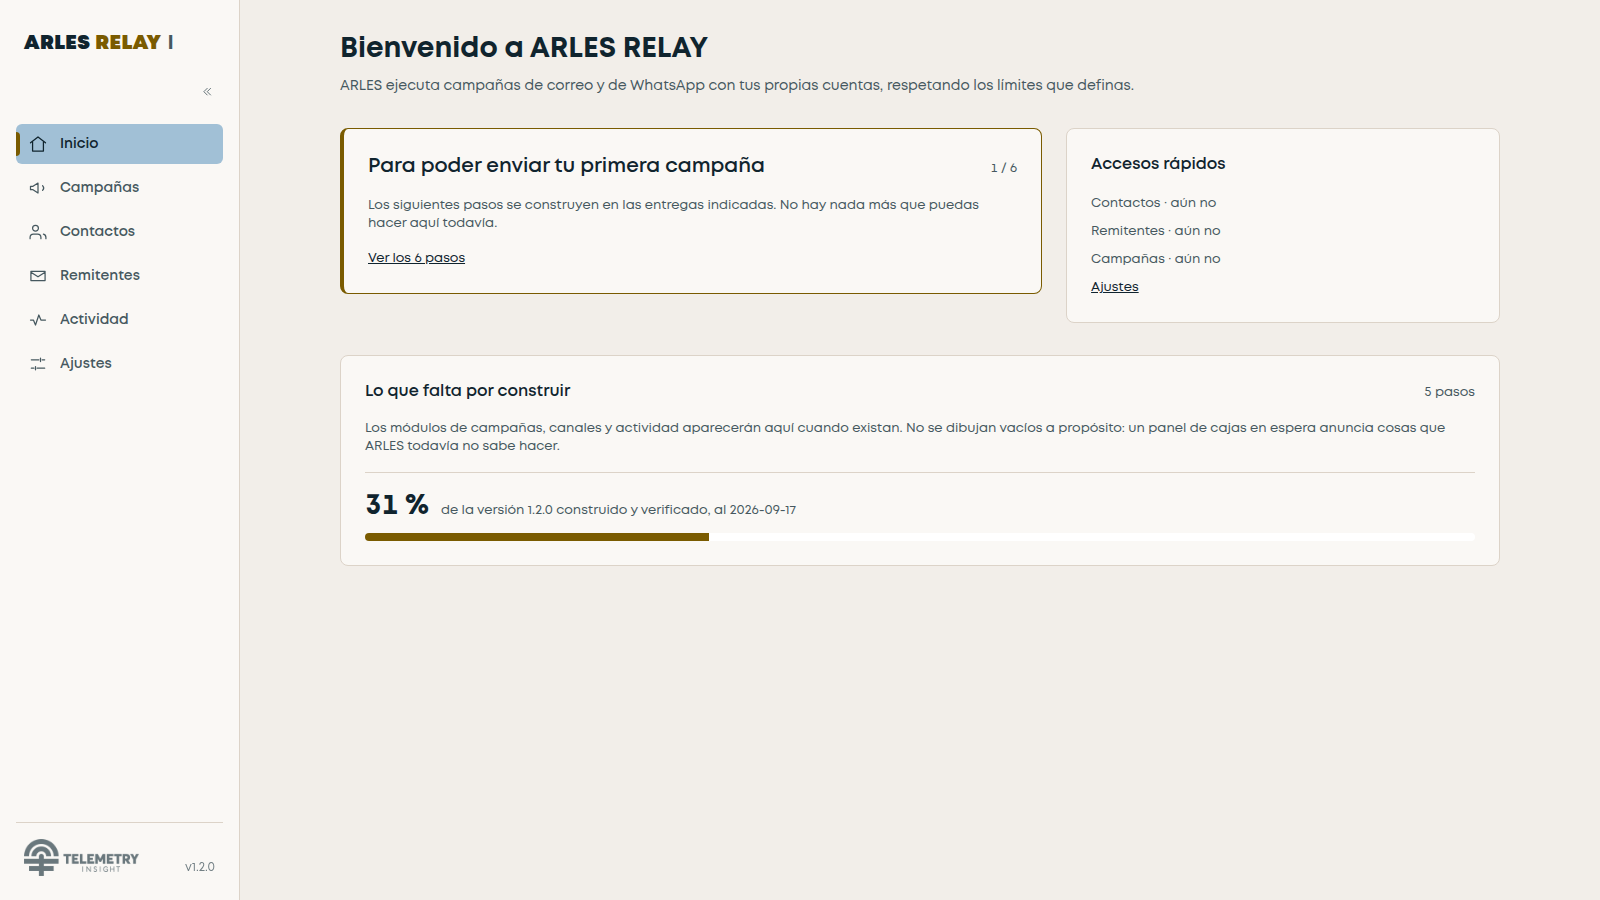
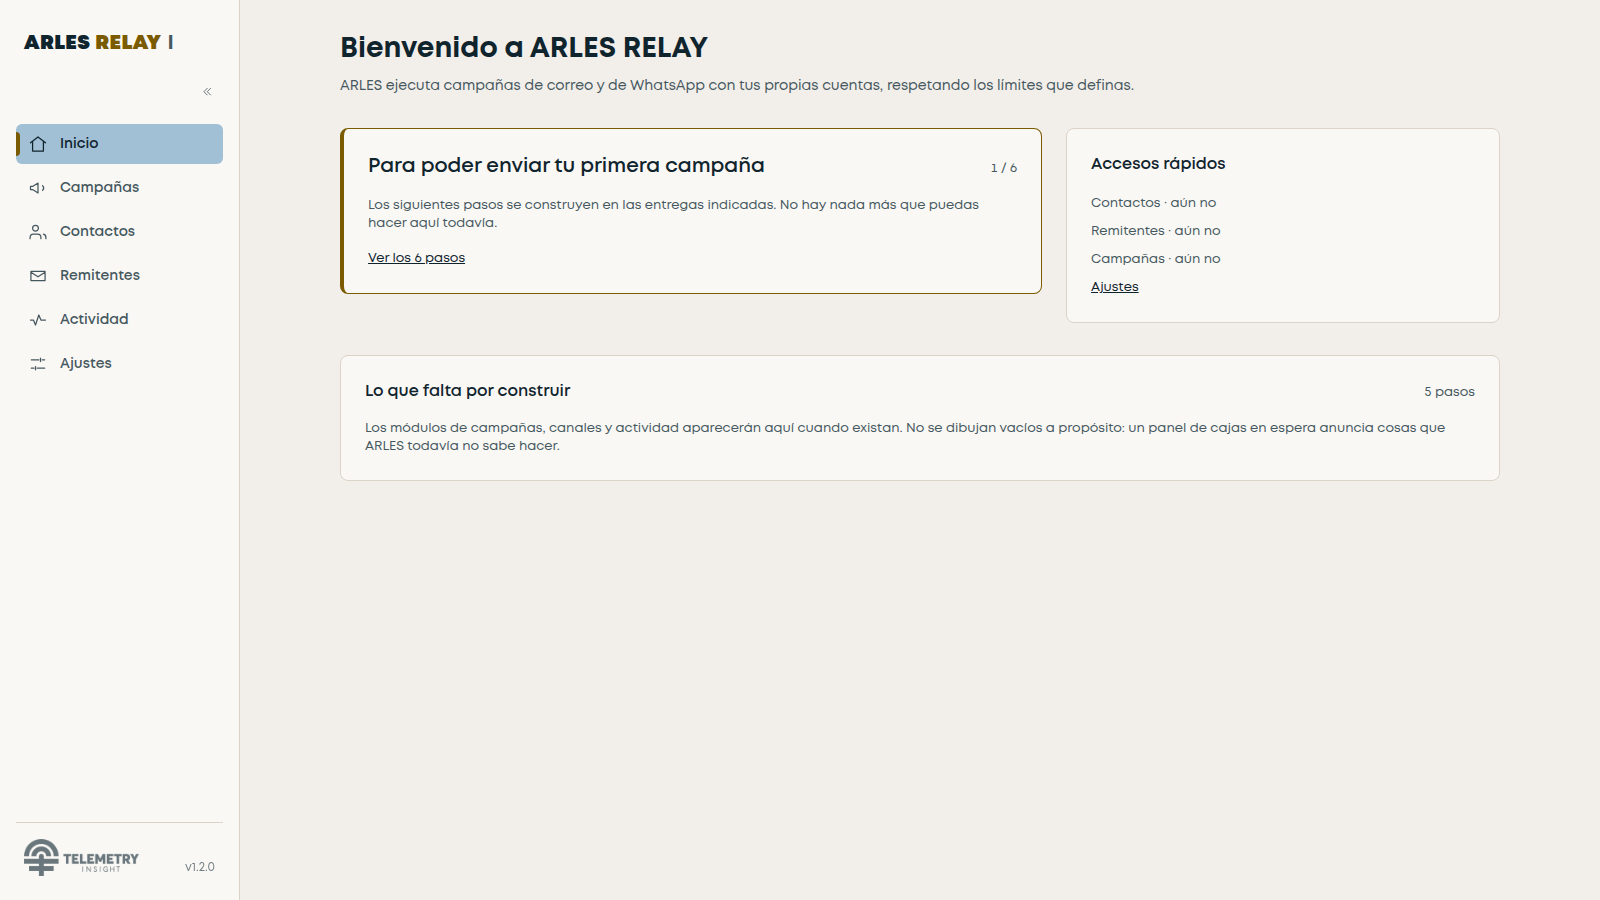
refactor(avance): el porcentaje va sólo en la portada de GitHub
Dirección decidió que el avance se vea en el repositorio y no dentro de la
aplicación. Se retira de la pantalla de Inicio, con sus textos, su archivo
generado y la comprobación del validador que lo vigilaba: vigilar un destino
que ya no existe sería un ✓ sobre nada.

Coincide con lo razonable: el avance es un dato del proyecto, no del producto.
A quien use ARLES no le sirve saber que está al 31 %; le sirve saber qué puede
hacer hoy, que es lo que dice la lista de alta. En el repositorio, en cambio,
es exactamente la pregunta que se viene a responder.

El generador sigue existiendo aunque el destino sea uno solo: escrita a mano,
la insignia se actualiza y el desglose de fases de debajo se queda con los
valores del mes pasado, contradiciéndola.

Verificado: fase 3 en 30/30, 178 pruebas de Rust, 63 de front, lint y
typecheck.

Claude-Session: https://claude.ai/code/session_01LMpU9g9CeXzSDyzEWzDzhe

Changed region(s): [[0.2188, 0.5289, 0.5, 0.6222]]

diff --git a/app/src/app/pantallas/PantallaInicio.vue b/app/src/app/pantallas/PantallaInicio.vue
@@ -40,7 +40,6 @@ import { computed, onMounted } from 'vue'
 import { resolverError } from '@/app/errores'
 import { useAppStore } from '@/app/stores/app'
 import { useEmpresaStore } from '@/app/stores/empresa'
-import { AVANCE_ACTUALIZADO, AVANCE_PORCENTAJE } from '@/app/generado/avance'
 import { ABoton, AModulo, EstadoError } from '@/design/componentes'
 
 const empresa = useEmpresaStore()
@@ -217,40 +216,6 @@ const accesos = computed(() => [
         <p class="detalle">
           {{ $t('inicio.enConstruccion.cuerpo') }}
         </p>
-
-        <!-- El avance de la versión, pedido por Dirección.
-             La cifra y la fecha salen GENERADAS de avance.json, la misma
-             fuente que la insignia del README: dos números escritos a mano
-             divergen en la primera prisa, y el validador lo vigila.
-             La fecha va al lado a propósito — un porcentaje sin fecha no dice
-             nada, y éste no se recalcula solo. -->
-        <div class="avance">
-          <div class="avance-cifra">
-            <span
-              class="avance-numero"
-              data-numeric
-            >{{ AVANCE_PORCENTAJE }} %</span>
-            <span class="avance-texto">
-              {{ $t('inicio.avanceVersion', { fecha: AVANCE_ACTUALIZADO }) }}
-            </span>
-          </div>
-          <!-- `role="img"` con etiqueta: quien no ve la barra oye la cifra y
-               su significado, no «gráfico». La barra no añade información
-               nueva, así que sus partes quedan ocultas al lector. -->
-          <div
-            class="avance-barra"
-            role="img"
-            :aria-label="$t('inicio.avanceVersionLector', {
-              pct: AVANCE_PORCENTAJE,
-              fecha: AVANCE_ACTUALIZADO,
-            })"
-          >
-            <div
-              class="avance-relleno"
-              :style="{ width: `${AVANCE_PORCENTAJE}%` }"
-            />
-          </div>
-        </div>
       </AModulo>
     </template>
   </section>
@@ -276,51 +241,6 @@ const accesos = computed(() => [
    lectura: es un bloque corto y centrado en su columna, no un texto largo. */
 .portada {
   max-width: 62ch;
-}
-
-.avance {
-  display: flex;
-  flex-direction: column;
-  gap: var(--arles-space-2);
-  margin-top: var(--arles-space-4);
-  padding-top: var(--arles-space-4);
-  border-top: var(--arles-border-width) solid var(--arles-border);
-}
-
-.avance-cifra {
-  display: flex;
-  align-items: baseline;
-  gap: var(--arles-space-3);
-  flex-wrap: wrap;
-}
-
-.avance-numero {
-  font-size: var(--arles-font-size-h1);
-  line-height: var(--arles-line-height-h1);
-  font-weight: var(--arles-font-weight-bold);
-  color: var(--arles-text);
-}
-
-.avance-texto {
-  color: var(--arles-text-muted);
-  font-size: var(--arles-font-size-small);
-  line-height: var(--arles-line-height-small);
-}
-
-/* Altura en un token de espacio, no un número suelto (§17). */
-.avance-barra {
-  height: var(--arles-space-2);
-  border-radius: var(--arles-radius-sm);
-  background: var(--arles-surface-raised);
-  overflow: hidden;
-}
-
-.avance-relleno {
-  height: 100%;
-  background: var(--arles-accent-ink);
-  /* El ancho sale de un dato generado, no de una interacción: animarlo haría
-     que la cifra pareciera estar calculándose en vivo, que es justo lo que no
-     hace. Ver §98: movimiento con propósito. */
 }
 
 .marca {

diff --git a/app/src/app/locales/es.ts b/app/src/app/locales/es.ts
@@ -76,12 +76,6 @@ export const es = {
         'existan. No se dibujan vacíos a propósito: un panel de cajas en ' +
         'espera anuncia cosas que ARLES todavía no sabe hacer.',
     },
-    // El avance de la versión, pedido por Dirección. Con fecha: un porcentaje
-    // sin fecha no dice nada, y éste no se recalcula solo.
-    avanceVersion: 'de la versión 1.2.0 construido y verificado, al {fecha}',
-    avanceVersionLector:
-      'Avance de la versión 1.2.0: {pct} por ciento construido y ' +
-      'verificado, al {fecha}.',
     hecho: 'Hecho',
     pendiente: 'Pendiente',
     llegaEn: 'Llega en la entrega {entrega}',

diff --git a/herramientas/avance/calcular.py b/herramientas/avance/calcular.py
@@ -1,23 +1,29 @@
 #!/usr/bin/env python3
-"""Calcula el avance de ARLES y lo propaga a los dos sitios donde se enseña.
+"""Calcula el avance de ARLES y lo escribe en la portada del repositorio.
 
     python3 herramientas/avance/calcular.py              # sólo lo imprime
-    python3 herramientas/avance/calcular.py --escribir    # actualiza README y app
+    python3 herramientas/avance/calcular.py --escribir    # actualiza el README
 
 ─────────────────────────────────────────────────────────────────────────────
 POR QUÉ ESTO ES UN GENERADOR Y NO DOS NÚMEROS ESCRITOS A MANO
 
-Dirección pidió ver el porcentaje **en GitHub y en la pantalla de Inicio**. Son
-dos sitios, y dos sitios con el mismo número escrito a mano son dos números que
-divergen en la primera prisa: se actualiza el del README al cerrar una fase y el
-de la pantalla se queda con el de hace un mes, sin que nadie se entere.
+Dirección lo quiere **sólo en la portada del repositorio en GitHub**, no dentro
+de la aplicación (decidido el 17/09/2026; la primera versión lo puso en los dos
+sitios y se retiró de la pantalla).
 
-Aquí el número vive en `documentacion/07-entrega/avance.json` y **sólo ahí**. De
-él salen la insignia del README y el archivo que lee la pantalla. El validador
-recalcula y **falla** si los tres dejan de coincidir, así que la divergencia
-deja de ser silenciosa.
+Aun siendo un solo destino, el número vive en
+`documentacion/07-entrega/avance.json` y la insignia se **genera**: escrito a
+mano en el README, se edita ahí y el desglose de fases de debajo se queda con
+los valores del mes pasado, contradiciendo a la propia insignia. El validador
+recalcula y **falla** si el README y la fuente dejan de coincidir.
 
 Es la misma regla del §17 con los colores: una fuente, y lo demás generado.
+
+Y hay un motivo para que el porcentaje NO esté dentro de la aplicación: es un
+dato **del proyecto**, no del producto. A quien use ARLES no le sirve saber que
+está al 31 %; le sirve saber qué puede hacer hoy, que es lo que dice la lista de
+alta. En el repositorio, en cambio, es exactamente la pregunta que se viene a
+responder.
 ─────────────────────────────────────────────────────────────────────────────
 """
 
@@ -32,7 +38,6 @@ from pathlib import Path
 RAIZ = Path(__file__).resolve().parents[2]
 FUENTE = RAIZ / "documentacion" / "07-entrega" / "avance.json"
 README = RAIZ / "README.md"
-DESTINO_APP = RAIZ / "app" / "src" / "app" / "generado" / "avance.ts"
 
 #: Marcas dentro del README. Se sustituye lo de en medio y nada más: así el
 #: resto de la portada se edita a mano sin que este script la pise.
@@ -144,52 +149,9 @@ def escribir_readme(datos: dict, pct: int) -> bool:
     return True
 
 
-def escribir_app(datos: dict, pct: int) -> bool:
-    fases = ",\n".join(
-        "  {{ id: {id!r}, nombre: {nombre!r}, hecho: {hecho} }}".format(
-            id=f["id"], nombre=f["nombre"], hecho=round(f["hecho"], 3)
-        ).replace("'", "'")
-        for f in datos["fases"]
-    )
-    # Comillas simples, que es lo que impone el lint del frontend.
-    fases = fases.replace('"', "'")
-    contenido = f"""/**
- * GENERADO. No editar a mano.
- *
- * Sale de `documentacion/07-entrega/avance.json` con
- * `python3 herramientas/avance/calcular.py --escribir`.
- *
- * Dirección pidió ver el avance en GitHub y en la pantalla de Inicio. Son dos
- * sitios; dos números escritos a mano divergen en la primera prisa. El
- * validador recalcula y falla si este archivo, el README y la fuente dejan de
- * coincidir.
- */
-export const AVANCE_PORCENTAJE = {pct}
-
-/** La fecha del dato, no la de hoy: un porcentaje sin fecha no dice nada. */
-export const AVANCE_ACTUALIZADO = '{datos["actualizado"]}'
-
-export interface FaseDeAvance {{
-  id: string
-  nombre: string
-  /** Fracción de 0 a 1. */
-  hecho: number
-}}
-
-export const AVANCE_FASES: readonly FaseDeAvance[] = [
-{fases},
-]
-"""
-    DESTINO_APP.parent.mkdir(parents=True, exist_ok=True)
-    if DESTINO_APP.exists() and DESTINO_APP.read_text(encoding="utf-8") == contenido:
-        return False
-    DESTINO_APP.write_text(contenido, encoding="utf-8")
-    return True
-
-
 def main() -> int:
     p = argparse.ArgumentParser(description="Avance de ARLES RELAY I")
-    p.add_argument("--escribir", action="store_true", help="actualiza README y app")
+    p.add_argument("--escribir", action="store_true", help="actualiza el README")
     args = p.parse_args()
 
     datos = cargar()
@@ -209,8 +171,6 @@ def main() -> int:
         cambios = []
         if escribir_readme(datos, pct):
             cambios.append("README.md")
-        if escribir_app(datos, pct):
-            cambios.append(str(DESTINO_APP.relative_to(RAIZ)))
         print("\n  " + ("actualizado: " + ", ".join(cambios) if cambios
                         else "nada que actualizar: ya coincidían"))
     return 0

diff --git a/herramientas/validar/validar.py b/herramientas/validar/validar.py
@@ -1413,14 +1413,10 @@ def avance_no_diverge():
           "es peor que ninguno.",
           f"README {en_readme} vs calculado {esperado}")
 
-    generado = leer("app/src/app/generado", "avance.ts") or ""
-    m = re.search(r"AVANCE_PORCENTAJE = (\d+)", generado)
-    en_app = int(m.group(1)) if m else None
-    check(3, "el avance de la pantalla coincide con la fuente",
-          en_app == esperado,
-          "Es el mismo dato que el del README. Dos números distintos para lo "
-          "mismo obligan a preguntar cuál es el bueno.",
-          f"pantalla {en_app} vs calculado {esperado}")
+    # Aquí había una tercera comprobación, sobre el porcentaje dentro de la
+    # aplicación. Dirección decidió el 17/09/2026 que el avance va **sólo** en
+    # la portada de GitHub, así que se retiró de la pantalla y con ella su
+    # comprobación: vigilar un destino que ya no existe sería un ✓ sobre nada.
 
 
 def migraciones_no_se_editan():

diff --git a/CHANGELOG.md b/CHANGELOG.md
@@ -14,12 +14,18 @@ Versionado según [Versionado Semántico](https://semver.org/lang/es/) (§3).
 
 ### Avance de la versión visible, y una auditoría que encontró seis documentos mintiendo
 
-- **El porcentaje de avance se ve en dos sitios**, como pidió Dirección: en la
-  portada del repositorio en GitHub y en la pantalla de Inicio. Hoy, **31 %**.
-- **Un solo origen**, `documentacion/07-entrega/avance.json`; la insignia del
-  README y el archivo que lee la pantalla se **generan**. El validador recalcula
-  y falla si los tres divergen — probado cambiando el número del README a mano.
-  Dos sitios con el mismo número escrito a mano divergen en la primera prisa.
+- **El porcentaje de avance se ve en la portada del repositorio en GitHub.**
+  Hoy, **31 %**.
+- **Sólo ahí, no dentro de la aplicación.** La primera versión lo puso también
+  en la pantalla de Inicio y Dirección lo retiró. Coincide con lo razonable: es
+  un dato **del proyecto**, no del producto — a quien use ARLES no le sirve
+  saber que está al 31 %, le sirve saber qué puede hacer hoy, que es lo que dice
+  la lista de alta.
+- **Un solo origen**, `documentacion/07-entrega/avance.json`; la insignia y el
+  desglose de fases del README se **generan**. El validador recalcula y falla si
+  el README y la fuente divergen — probado cambiando el número a mano. Escrito a
+  mano, la insignia se actualiza y el desglose de debajo se queda con los valores
+  del mes pasado, contradiciéndola.
 - Cada fracción lleva **en qué se apoya**; los pesos se declaran como estimación
   en vez de presentarse como medición. Y el número **baja** cuando Dirección
   amplía el alcance, que es lo correcto: falta más porque hay más que hacer.

diff --git a/documentacion/06-calidad/CHECKLIST-VISUAL.md b/documentacion/06-calidad/CHECKLIST-VISUAL.md
@@ -73,12 +73,17 @@ qué hacer sin preguntar. Si dudas un segundo, es un hallazgo.
 
 ## Bloque D · El avance de la versión · lo que pediste hoy
 
+**Se revisa en GitHub, no en la aplicación.** Dirección decidió que el avance va
+sólo en la portada del repositorio: es un dato **del proyecto**, no del
+producto. A quien use ARLES no le sirve saber que está al 31 %; le sirve saber
+qué puede hacer hoy, que es lo que dice la lista de alta.
+
 | | Qué mirar | Cómo saber si está bien |
 |---|---|---|
-| **D-1** | Inicio → módulo «Lo que falta por construir» | Sale **31 %**, una barra, y **la fecha del dato** |
-| **D-2** | Abre el repositorio en GitHub | La portada enseña la **misma cifra**, en una insignia |
-| **D-3** | Despliega «Cómo sale ese número» en GitHub | Explica el método, enseña las fases con su peso, y **lo que el número no mide** |
-| **D-4** | Compara D-1 y D-2 | **Tienen que ser iguales.** Si no, hay un fallo — y el validador debería haberlo cazado antes |
+| **D-1** | Abre el repositorio en GitHub | Arriba, una insignia con **31 %** y la frase con **la fecha del dato** |
+| **D-2** | Despliega «Cómo sale ese número» | Explica el método, enseña las once fases con su peso y su avance, y **lo que el número no mide** |
+| **D-3** | Mira la tabla de bloqueos, debajo | Están los cuatro trámites que esperan a alguien de fuera, con nombre de responsable |
+| **D-4** | Comprueba que **dentro de ARLES no sale** ningún porcentaje de avance | Inicio habla de «1 de 6» pasos del alta, que es otra cosa |
 
 !i La fecha está al lado del número a propósito: **el porcentaje no se
 recalcula solo**. Sale de un archivo que se actualiza a mano al cerrar trabajo,
